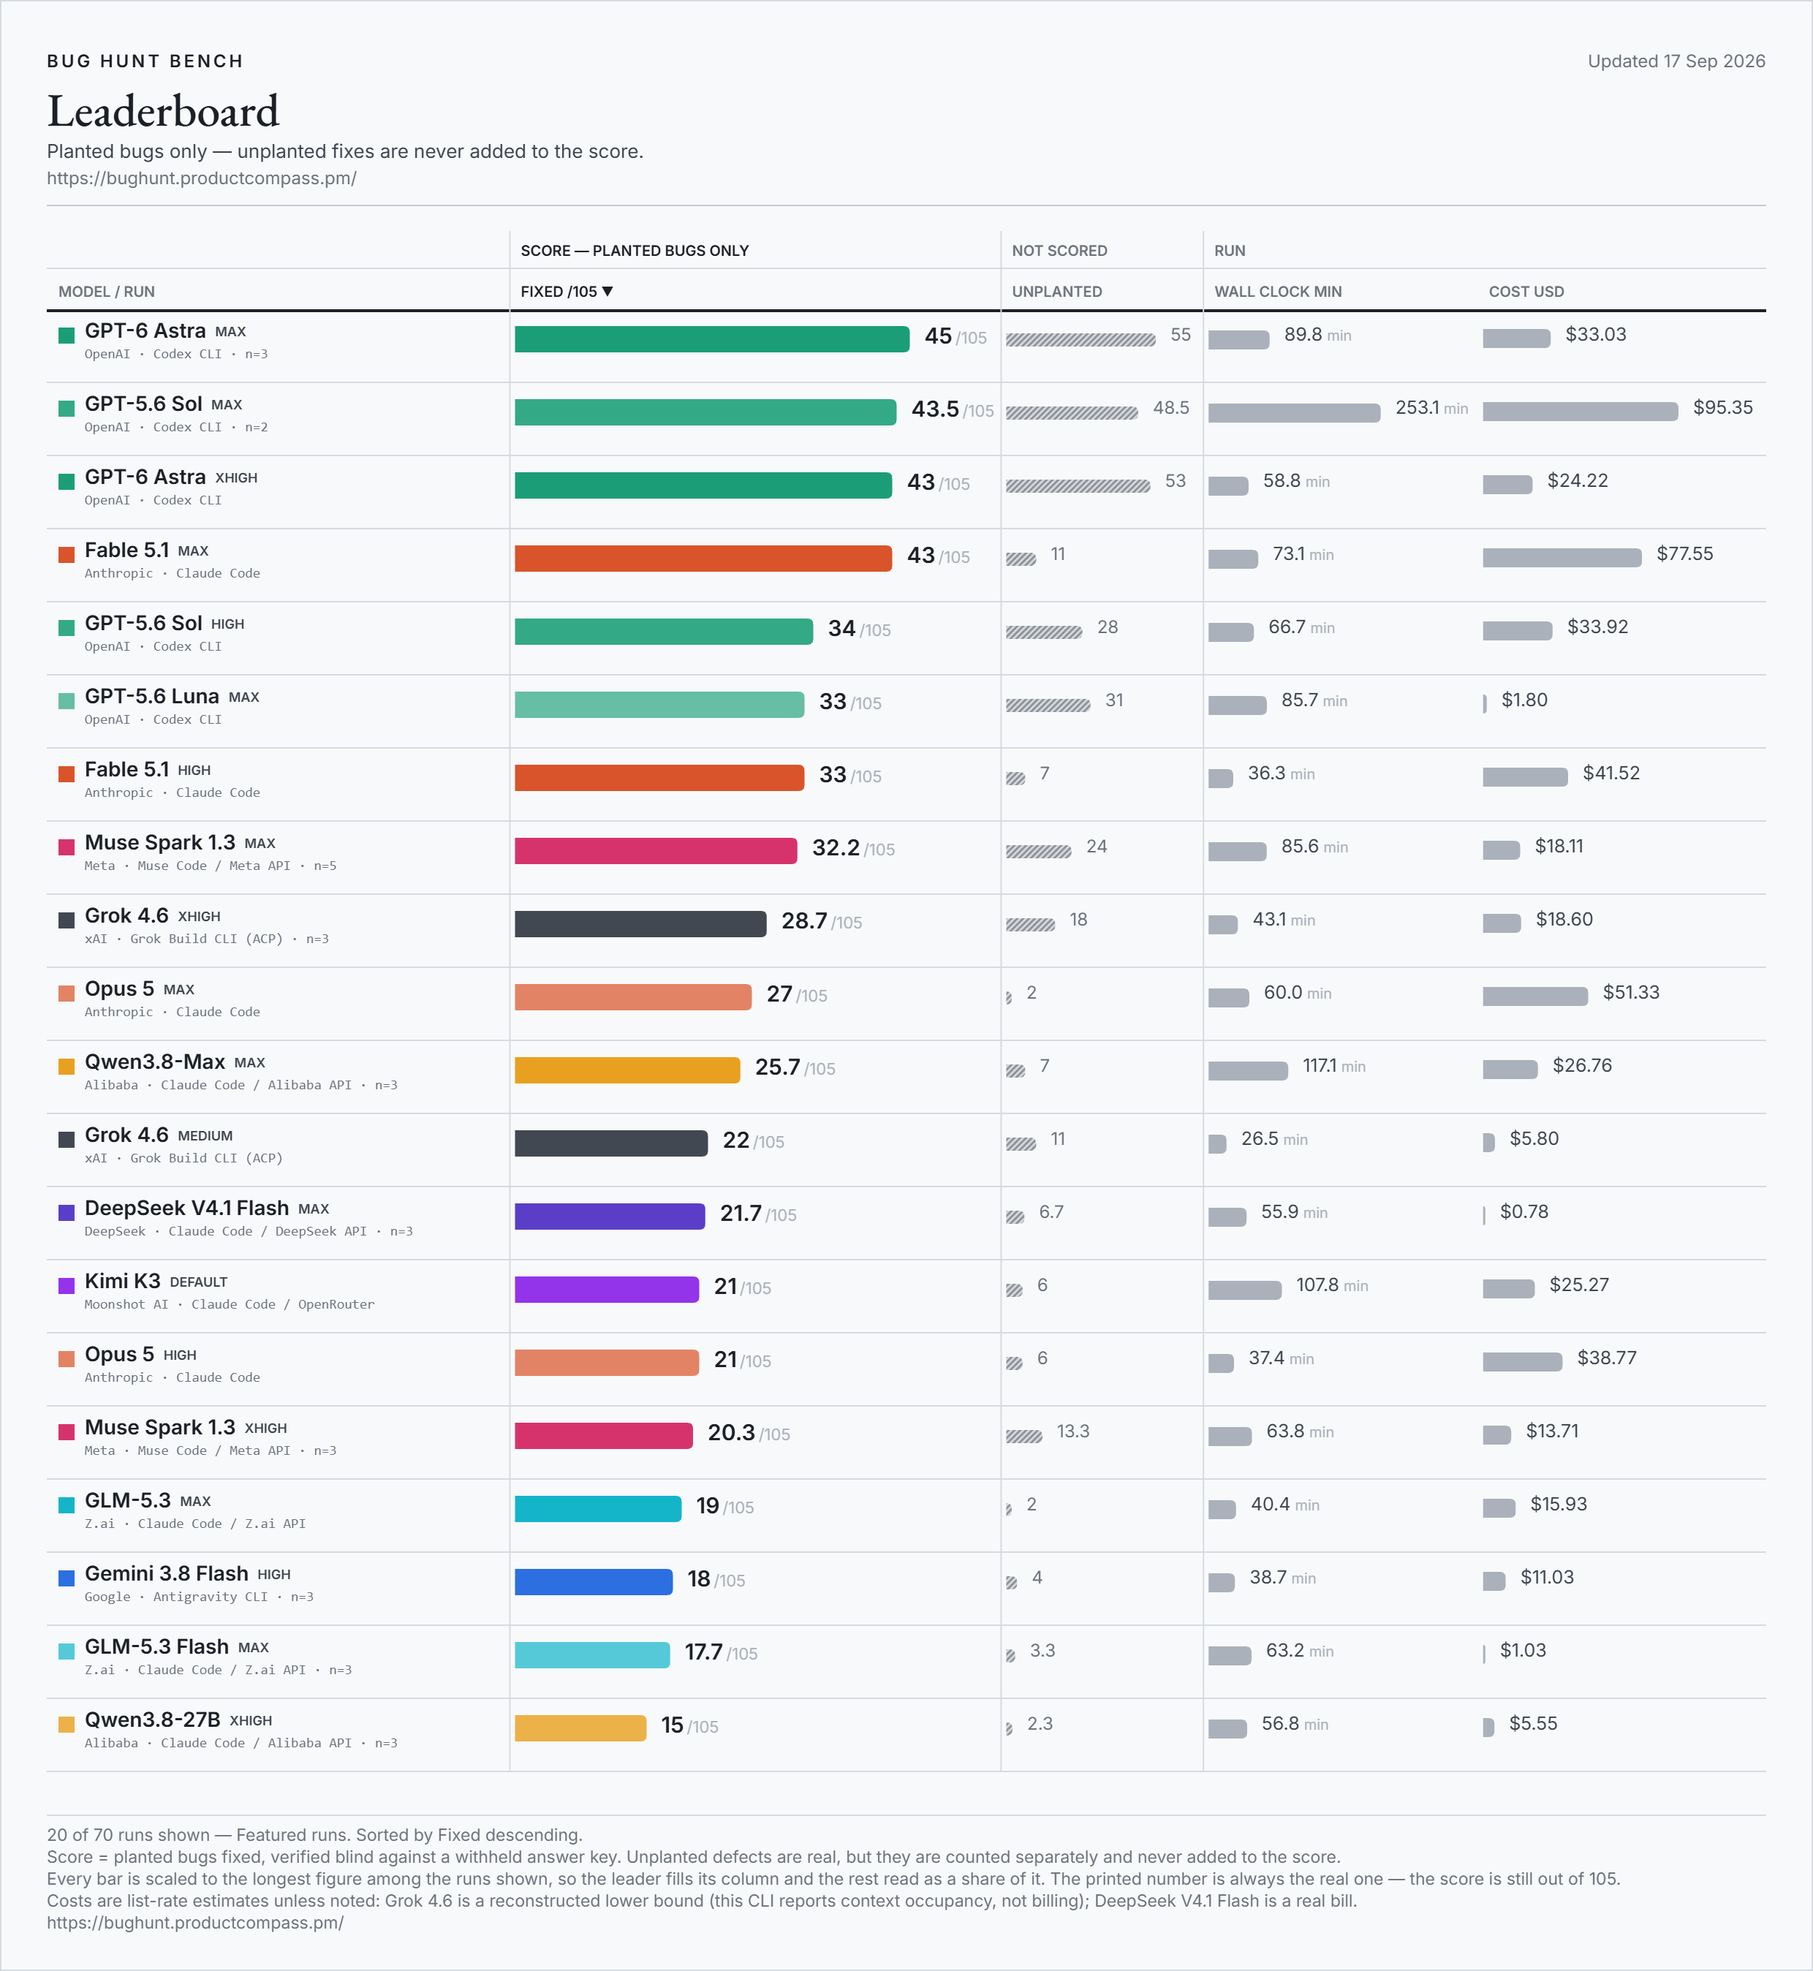
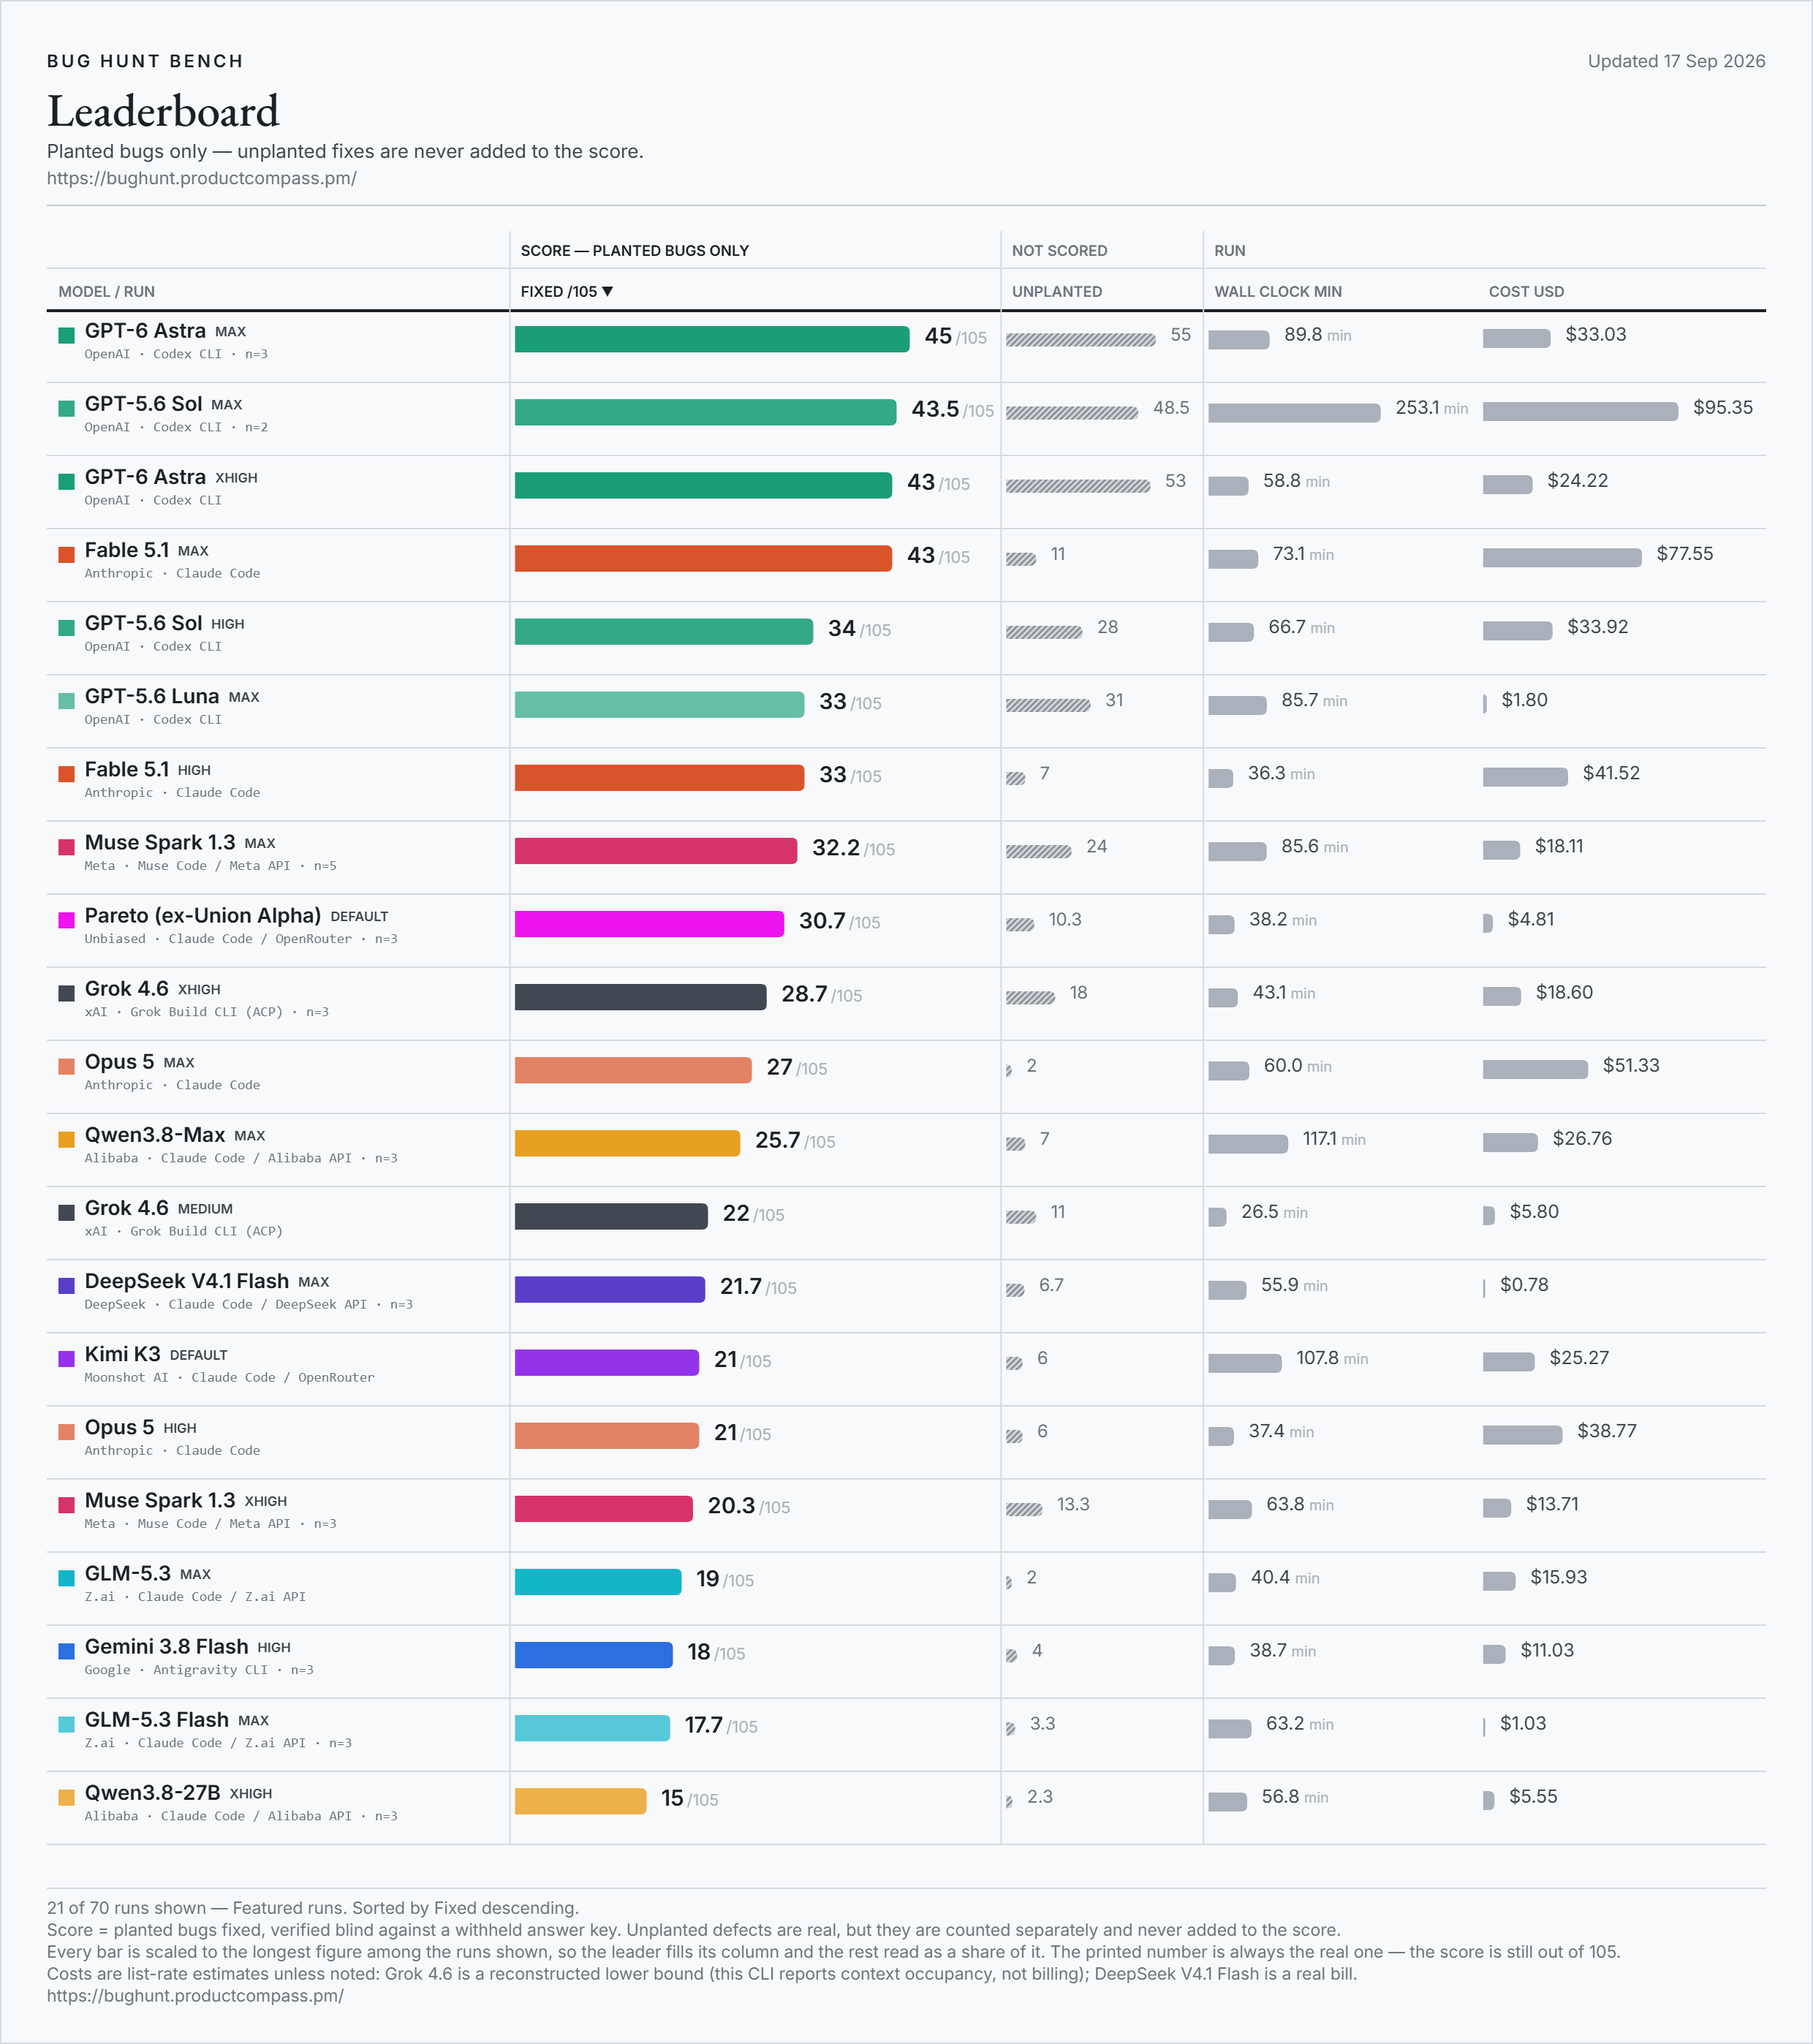
bug hunt bench: Union Alpha (stealth; free) - mean of 3 (30.7/105)

diff --git a/index.html b/index.html
@@ -22,14 +22,14 @@
 <meta property="og:title" content="Bug Hunt Bench — frontier coding models against real planted bugs">
 <meta property="og:description" content="A blind-graded benchmark of frontier coding models on real bugs planted in two production codebases. The score counts planted bugs only; extra fixes are tracked separately and never added.">
 <meta property="og:url" content="https://bughunt.productcompass.pm/">
-<meta property="og:image" content="https://bughunt.productcompass.pm/og-image.png?v=2026-09-17-d370594d">
+<meta property="og:image" content="https://bughunt.productcompass.pm/og-image.png?v=2026-09-17-3084305c">
 <meta property="og:image:width" content="1200">
 <meta property="og:image:height" content="630">
 <meta property="og:image:alt" content="Bug Hunt Bench leaderboard">
 <meta name="twitter:card" content="summary_large_image">
 <meta name="twitter:title" content="Bug Hunt Bench — frontier coding models against real planted bugs">
 <meta name="twitter:description" content="A blind-graded benchmark of frontier coding models on real bugs planted in two production codebases. The score counts planted bugs only.">
-<meta name="twitter:image" content="https://bughunt.productcompass.pm/og-image.png?v=2026-09-17-d370594d">
+<meta name="twitter:image" content="https://bughunt.productcompass.pm/og-image.png?v=2026-09-17-3084305c">
 <meta name="twitter:creator" content="@PawelHuryn">
 
 <link rel="icon" href="/assets/favicon.svg" type="image/svg+xml">

diff --git a/method.html b/method.html
@@ -20,14 +20,14 @@
 <meta property="og:title" content="Method, caveats and definitions — Bug Hunt Bench">
 <meta property="og:description" content="How Bug Hunt Bench is run and graded, what the board cannot tell you, and what every column on it means.">
 <meta property="og:url" content="https://bughunt.productcompass.pm/method">
-<meta property="og:image" content="https://bughunt.productcompass.pm/og-image.png?v=2026-09-17-d370594d">
+<meta property="og:image" content="https://bughunt.productcompass.pm/og-image.png?v=2026-09-17-3084305c">
 <meta property="og:image:width" content="1200">
 <meta property="og:image:height" content="630">
 <meta property="og:image:alt" content="Bug Hunt Bench leaderboard">
 <meta name="twitter:card" content="summary_large_image">
 <meta name="twitter:title" content="Method, caveats and definitions — Bug Hunt Bench">
 <meta name="twitter:description" content="How Bug Hunt Bench is run and graded, what the board cannot tell you, and what every column on it means.">
-<meta name="twitter:image" content="https://bughunt.productcompass.pm/og-image.png?v=2026-09-17-d370594d">
+<meta name="twitter:image" content="https://bughunt.productcompass.pm/og-image.png?v=2026-09-17-3084305c">
 <meta name="twitter:creator" content="@PawelHuryn">
 
 <link rel="icon" href="/assets/favicon.svg" type="image/svg+xml">
